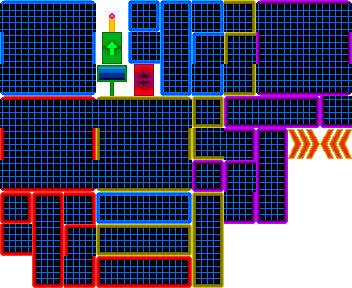
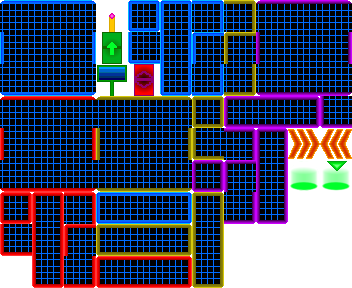
Added Checkpoints (Simplified)

Changed region(s): [[0.8125, 0.5312, 1.0, 0.6875]]

diff --git a/Game/components/player.py b/Game/components/player.py
@@ -155,7 +155,7 @@ class Player(pygame.sprite.Sprite):
                                                 (0, 81, 138),
                                                 (141, 200, 241), 1, -1,
                                                 self.particles)
-
+        self.lastcheckpoint = location
     def respawn(self, game):
         """
         Method used to respawn the player after death
@@ -185,10 +185,9 @@ class Player(pygame.sprite.Sprite):
         # self.kill()     # Kills the player sprite
         # Does a complete respawn of the player
         # v-----------------------------------------------------v
-        start_cell = game.tilemap.layers['Triggers'].find('playerEntrance')[0]
         # game.player = Player((start_cell.px, start_cell.py),
         #                     game.sprites, keys=self.keys, game=self.game)
-        game.player.rect.x, game.player.rect.y = start_cell.px, start_cell.py
+        game.player.rect.x, game.player.rect.y = self.lastcheckpoint
         game.player.y_speed = 0
         game.player.x_speed = 0
         # ^-----------------------------------------------------^
@@ -744,3 +743,14 @@ class Player(pygame.sprite.Sprite):
             self.glitched = True
         self.animate(self.y_speed, self.x_speed, self.resting, self.direction,
                      dt, game.gravity, self.running, self.glitched)
+        # ^--------------------------------------------------------------^
+        # Handles The checkpoints
+        # v--------------------------------------------------------------v
+        for cell in game.tilemap.layers['Triggers'].collide(
+                self.rect, 'CheckPoint'):
+                chk = cell['CheckPoint']
+                if chk == 1:
+                    self.lastcheckpoint =(self.rect.x, self.rect.y)
+                    cell['CheckPoint'] = 0
+                    mod_logger.info("Checkpoint Saved")
+        # ^--------------------------------------------------------------^
